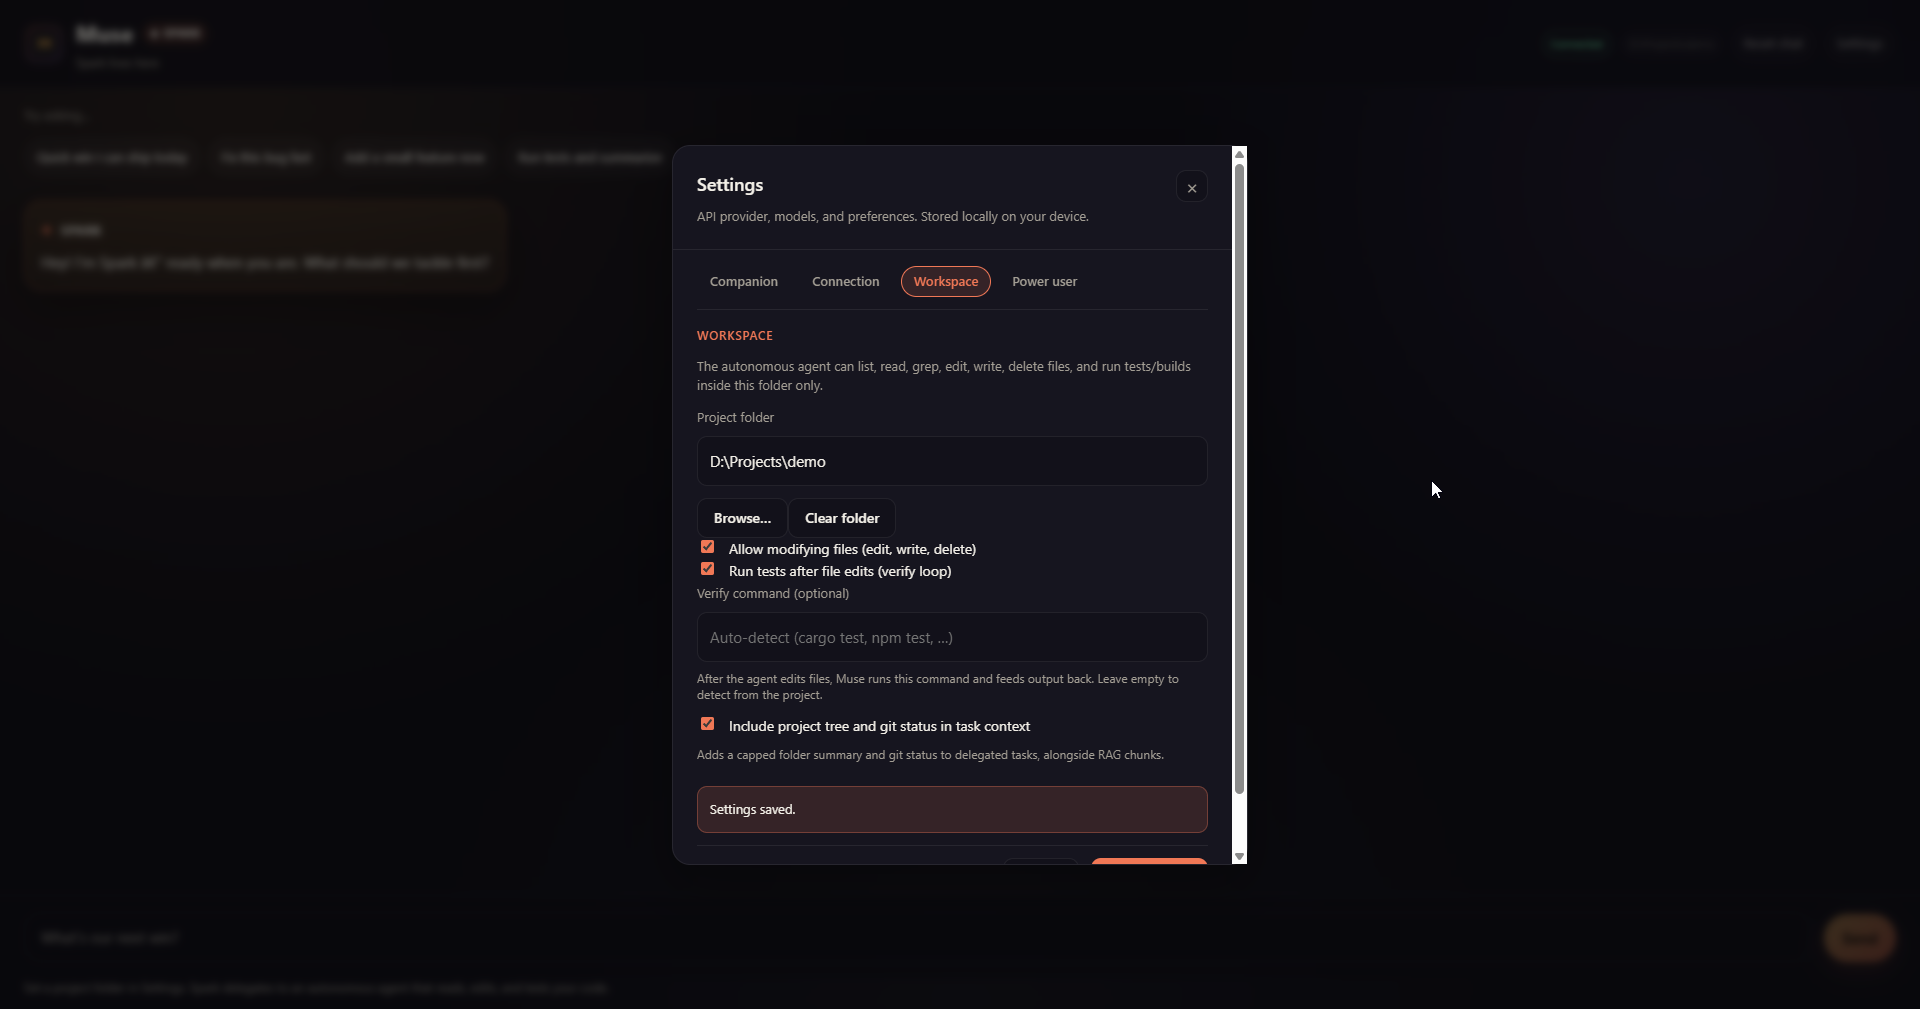
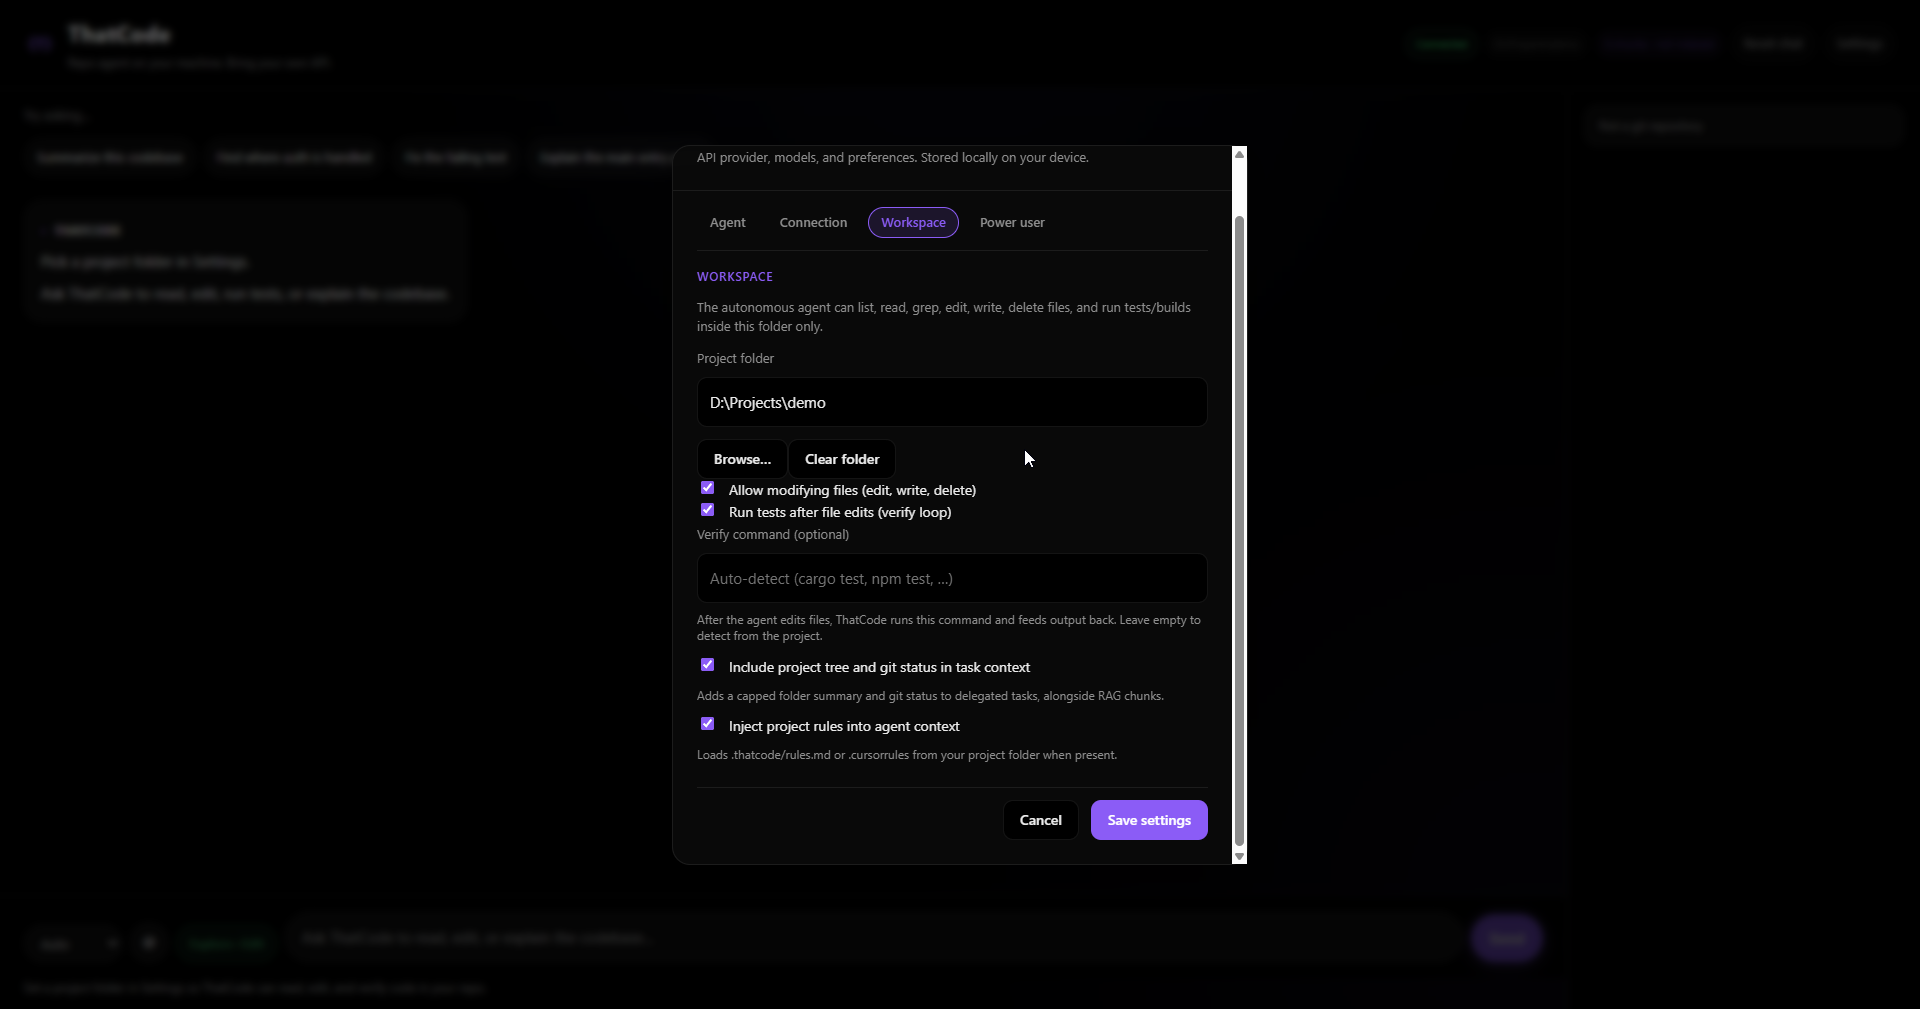
adding screenshots

diff --git a/README.md b/README.md
@@ -49,17 +49,17 @@ Sibling to **[ThatGPT](https://github.com/Satan2049/ThatGPT)** (ChatGPT, but loc
 ## Screenshots
 
 <p align="center">
-  <img src="./docs/screenshots/chat.png" alt="ThatCode chat with project context" width="820" />
+  <img src="docs/screenshots/chat.png" alt="ThatCode chat with project context" width="820" />
 </p>
 
 <p align="center">
-  <img src="./docs/screenshots/workflow.gif" alt="ThatCode agent workflow" width="820" />
+  <img src="docs/screenshots/agent.png" alt="ThatCode tool activity and change review" width="820" />
 </p>
 
 <p align="center">
-  <img src="./docs/screenshots/connections.png" alt="Connection settings" width="270" />
+  <img src="docs/screenshots/connections.png" alt="Connection settings" width="270" />
   &nbsp;
-  <img src="./docs/screenshots/workspace.png" alt="Workspace settings" width="270" />
+  <img src="docs/screenshots/workspace.png" alt="Workspace settings" width="270" />
 </p>
 
 ---

diff --git a/docs/screenshots/README.md b/docs/screenshots/README.md
@@ -5,7 +5,7 @@ Marketing images for [README.md](../../README.md) and [index.html](../index.html
 | File | Use |
 |------|-----|
 | `chat.png` | Main ThatCode chat with project context |
-| `workflow.gif` | Agent workflow demo (tools + diffs) |
+| `agent.png` | Tool activity, diffs, and sidebar |
 | `connections.png` | Settings → Connection / models |
 | `workspace.png` | Settings → Workspace sandbox |
 
@@ -14,4 +14,4 @@ Marketing images for [README.md](../../README.md) and [index.html](../index.html
 1. Run `npm run tauri dev` (or a release build).
 2. Capture at **1280×720** or **1440×900**.
 3. Overwrite the files above (keep filenames so README links stay valid).
-4. Optimize GIF size before commit (`workflow.gif` should stay under ~5 MB for GitHub).
+4. Optimize PNG/GIF size before commit (keep large assets under ~5 MB for GitHub).